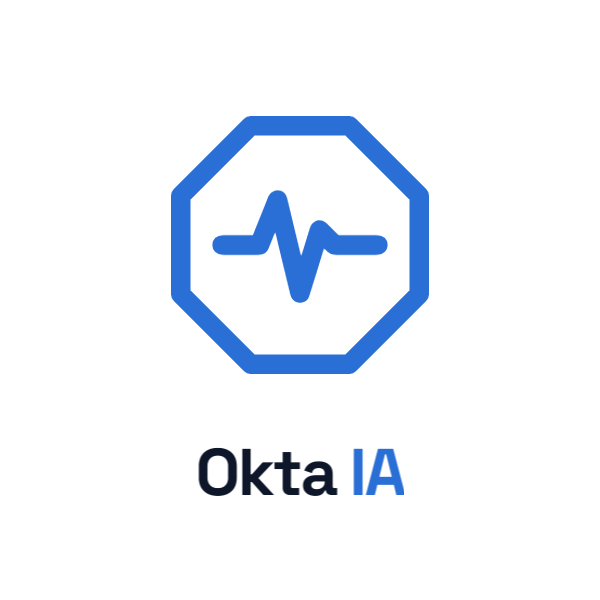
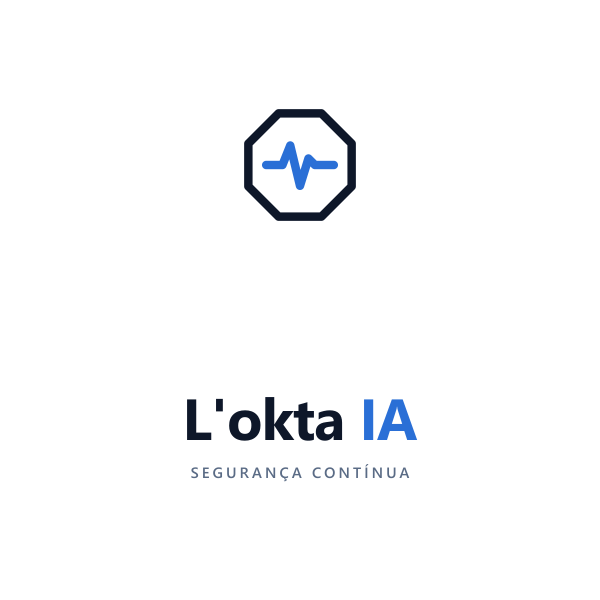
Rebranding completo: Okta-IA → L'okta IA
Logo nova (octógono + pulso, do manual de marca fornecido) substituindo o
selo antigo "O" em todo lugar: favicons, apple-touch-icon, ícone do PWA,
lockups horizontal/empilhado (claro e escuro), e o selo "solido" usado em
todos os cabeçalhos (SOC, Admin, Marketing, Login, 2FA) — via SVG/PNG real
em vez de div com letra estilizada.

Texto "Okta IA"/"Okta-IA"/"okta-ia.com" trocado por "L'okta IA"/"loktaia.com"
em: títulos de página, meta tags (og:site_name/og:image/og:url), mensagens
de compartilhamento, PDFs (Proposta Comercial, Termo de Autorização —
incluindo o selo redesenhado nos dois via IWebHostEnvironment+Image()),
catálogo mockup de conectores/SDK do Admin, issuer do 2FA (TOTP), nomes de
arquivo de PDF baixado, e e-mail de contato (info@/comercial@loktaia.com).

Backfill idempotente no DbSeeder pro e-mail de contato já seedado em
produção (SeedContactChannelsAsync só roda uma vez, nunca atualizaria
sozinho) — só troca se o valor ainda for o default antigo, nunca sobrescreve
edição manual feita via /Contato.

Deixado de propósito sem trocar: nome do recurso Azure App Service
"okta-ia" (identificador técnico interno, invisível ao usuário), namespace
C# "OktaIA.Web", appsettings.Development.json (config local de dev), e
comentários que descrevem o arquivo de mockup original por nome histórico.

Changed region(s): [[0.27, 0.18, 0.72, 0.63], [0.3, 0.66, 0.69, 0.84]]

diff --git a/src/OktaIA.Web/wwwroot/js/site-marketing.js b/src/OktaIA.Web/wwwroot/js/site-marketing.js
@@ -54,7 +54,7 @@
     var shareCopyBtn = shareBackdrop.querySelector('[data-mk-share-copy]');
     var shareNativeBtn = shareBackdrop.querySelector('[data-mk-share-native]');
     var shareChannelsEl = shareBackdrop.querySelector('[data-mk-share-channels]');
-    var shareMsg = 'Conheça a okta-ia: SOC as a Service (MSSP) com monitoramento, resposta, relatórios, consultoria e gestão de segurança, agregando tecnologias de parceiros. Assessment gratuito em 48 horas.';
+    var shareMsg = 'Conheça a L\'okta IA: SOC as a Service (MSSP) com monitoramento, resposta, relatórios, consultoria e gestão de segurança, agregando tecnologias de parceiros. Assessment gratuito em 48 horas.';
 
     function openShare() {
       var url = location.href;
@@ -76,7 +76,7 @@
       if (typeof navigator !== 'undefined' && navigator.share) {
         shareNativeBtn.classList.add('mk-show');
         shareNativeBtn.addEventListener('click', function () {
-          navigator.share({ title: 'okta-ia · Cyber Security & AI', text: shareMsg, url: location.href }).catch(function () {});
+          navigator.share({ title: "L'okta IA · Cyber Security & AI", text: shareMsg, url: location.href }).catch(function () {});
         });
       }
     }
@@ -104,7 +104,7 @@
         { n: 'LinkedIn', c: '#0A66C2', href: 'https://www.linkedin.com/sharing/share-offsite/?url=' + u },
         { n: 'X', c: '#C4D3E6', href: 'https://twitter.com/intent/tweet?text=' + t + '&url=' + u },
         { n: 'Telegram', c: '#2AABEE', href: 'https://t.me/share/url?url=' + u + '&text=' + t },
-        { n: 'E-mail', c: '#FF8A3D', href: 'mailto:?subject=' + encodeURIComponent('okta-ia · Cyber Security & AI') + '&body=' + t + '%0A%0A' + u },
+        { n: 'E-mail', c: '#FF8A3D', href: 'mailto:?subject=' + encodeURIComponent("L'okta IA · Cyber Security & AI") + '&body=' + t + '%0A%0A' + u },
         { n: 'Teams', c: '#6264A7', href: 'https://teams.microsoft.com/share?href=' + u + '&msgText=' + t }
       ];
       shareChannelsEl.innerHTML = '';

diff --git a/src/OktaIA.Web/wwwroot/css/site-marketing.css b/src/OktaIA.Web/wwwroot/css/site-marketing.css
@@ -65,7 +65,7 @@
 }
 .mk-header-inner { max-width: 1280px; margin: 0 auto; padding: 0 clamp(14px, 3vw, 32px); height: 70px; display: flex; align-items: center; gap: 34px; }
 .mk-brand { display: flex; align-items: center; gap: 11px; color: var(--mk-text); flex: none; white-space: nowrap; }
-.mk-brand-mark { width: 30px; height: 30px; border-radius: 8px; background: linear-gradient(145deg, var(--mk-blue), #1B4FA8); display: flex; align-items: center; justify-content: center; font-family: 'IBM Plex Mono', monospace; font-size: 14px; font-weight: 700; color: var(--mk-bg); box-shadow: 0 0 22px rgba(77, 155, 255, .42); }
+.mk-brand-mark { width: 30px; height: 30px; display: flex; align-items: center; justify-content: center; }
 .mk-brand-word { font-size: 16px; font-weight: 700; letter-spacing: -.3px; }
 .mk-brand-word span { color: var(--mk-muted-4); font-weight: 500; }
 .mk-brand-tag { font-family: 'IBM Plex Mono', monospace; font-size: 8px; color: var(--mk-muted-4); letter-spacing: .16em; text-transform: uppercase; }

diff --git a/src/OktaIA.Web/wwwroot/css/site.css b/src/OktaIA.Web/wwwroot/css/site.css
@@ -58,8 +58,7 @@ a:hover { color: var(--oi-accent-light); }
   border-right: 1px solid var(--oi-border); height: 100%;
 }
 .oi-brand-mark {
-  width: 24px; height: 24px; border-radius: 6px;
-  background: linear-gradient(150deg, var(--oi-accent), var(--oi-accent-dark));
+  width: 24px; height: 24px;
   display: flex; align-items: center; justify-content: center;
   font-family: 'IBM Plex Mono', monospace; font-size: 12px; font-weight: 700; color: var(--oi-bg);
 }

diff --git a/src/OktaIA.Web/Services/PropostaComercialPdfService.cs b/src/OktaIA.Web/Services/PropostaComercialPdfService.cs
@@ -6,7 +6,7 @@ using QuestPDF.Infrastructure;
 namespace OktaIA.Web.Services;
 
 // Gera a "Proposta Consultoria" — documento comercial de venda (não o relatório técnico de
-// RelatorioPdfService), no molde do PDF de referência que o usuário trouxe pronto (Okta IA ·
+// RelatorioPdfService), no molde do PDF de referência que o usuário trouxe pronto (L'okta IA ·
 // Proposta Comercial · iAgrow, ago/2026): capa escura, sumário executivo, diagnóstico REAL da
 // empresa, catálogo dos 15 módulos em 4 camadas (Discover/Protect/Analyze/Govern), comparativo,
 // ROI, cronograma de 90 dias, investimento, termos comerciais e anexos. Só a seção 02 (diagnóstico)
@@ -15,9 +15,16 @@ namespace OktaIA.Web.Services;
 // app, que é bilíngue).
 public class PropostaComercialPdfService
 {
+    private readonly byte[] _iconMono;
+
     static PropostaComercialPdfService()
     {
         QuestPDF.Settings.License = LicenseType.Community;
+    }
+
+    public PropostaComercialPdfService(IWebHostEnvironment env)
+    {
+        _iconMono = File.ReadAllBytes(Path.Combine(env.WebRootPath, "img", "brand", "simbolo-mono.png"));
     }
 
     private const string BrandBg = "#0B1220";
@@ -66,12 +73,12 @@ public class PropostaComercialPdfService
                     col.Item().Row(row =>
                     {
                         row.AutoItem().Width(30).Height(30).Background(BrandBlue).AlignMiddle().AlignCenter()
-                            .Text("O").FontSize(15).Bold().FontColor(BrandBg);
+                            .Padding(6).Image(_iconMono);
                         row.RelativeItem().PaddingLeft(10).Column(brand =>
                         {
                             brand.Item().Text(t =>
                             {
-                                t.Span("Okta").FontSize(15).Bold().FontColor(Colors.White);
+                                t.Span("L'okta ").FontSize(15).Bold().FontColor(Colors.White);
                                 t.Span("IA").FontSize(15).Bold().FontColor(BrandBlue);
                             });
                             brand.Item().Text("SEGURANÇA CONTÍNUA").FontSize(7).FontColor(TextMuted).LetterSpacing(0.15f);
@@ -106,7 +113,7 @@ public class PropostaComercialPdfService
                 capa.Footer().Background(BrandBg).PaddingHorizontal(46).PaddingVertical(14).Row(row =>
                 {
                     row.RelativeItem().Text("DOCUMENTO CONFIDENCIAL — USO RESTRITO").FontSize(7).FontColor(TextMuted2);
-                    row.AutoItem().Text("OKTA-IA").FontSize(7).FontColor(TextMuted2);
+                    row.AutoItem().Text("L'OKTA IA").FontSize(7).FontColor(TextMuted2);
                 });
             });
 
@@ -119,7 +126,7 @@ public class PropostaComercialPdfService
 
                 page.Header().Row(row =>
                 {
-                    row.RelativeItem().Text("OKTA IA").FontSize(7.5f).Bold().FontColor(TextMuted2).LetterSpacing(0.1f);
+                    row.RelativeItem().Text("L'OKTA IA").FontSize(7.5f).Bold().FontColor(TextMuted2).LetterSpacing(0.1f);
                     row.AutoItem().Text($"PROPOSTA COMERCIAL · {empresa.Nome.ToUpperInvariant()} · {geradoEm:MMM yyyy}".ToUpperInvariant())
                         .FontSize(7.5f).FontColor(TextMuted2).LetterSpacing(0.06f);
                 });
@@ -132,7 +139,7 @@ public class PropostaComercialPdfService
                         row.RelativeItem().Text("DOCUMENTO CONFIDENCIAL — USO RESTRITO").FontSize(6.5f).FontColor(TextMuted2);
                         row.AutoItem().Text(x =>
                         {
-                            x.Span("OKTA-IA · ").FontSize(6.5f).FontColor(TextMuted2);
+                            x.Span("L'OKTA IA · ").FontSize(6.5f).FontColor(TextMuted2);
                             x.CurrentPageNumber().FontSize(6.5f).FontColor(TextMuted2);
                             x.Span(" / ").FontSize(6.5f).FontColor(TextMuted2);
                             x.TotalPages().FontSize(6.5f).FontColor(TextMuted2);
@@ -158,7 +165,7 @@ public class PropostaComercialPdfService
                         .FontSize(10).LineHeight(1.6f);
                     body.Item().PaddingTop(6).Text(t =>
                     {
-                        t.Span("A Okta IA não substitui nenhuma dessas ferramentas. Ela ").FontSize(10).LineHeight(1.6f);
+                        t.Span("A L'okta IA não substitui nenhuma dessas ferramentas. Ela ").FontSize(10).LineHeight(1.6f);
                         t.Span("orquestra").FontSize(10).Bold().LineHeight(1.6f);
                         t.Span(" todas. É a camada de inteligência que fica acima do parque instalado, consolida o que cada sistema já sabe, " +
                                "prioriza riscos com IA e traduz tudo em uma linguagem que o conselho entende: risco, custo, prazo e responsável.")
@@ -259,7 +266,7 @@ public class PropostaComercialPdfService
 
                     body.Item().PaddingTop(8).Text(
                         "O que esse diagnóstico mostra é apenas a superfície externa. É o primeiro dos quinze módulos da plataforma, e o único que roda " +
-                        "sem nenhuma integração. Os outros catorze só aparecem quando a Okta IA se conecta ao que a empresa já tem instalado.")
+                        "sem nenhuma integração. Os outros catorze só aparecem quando a L'okta IA se conecta ao que a empresa já tem instalado.")
                         .FontSize(9).FontColor(TextMuted).LineHeight(1.6f);
 
                     // 03 — O diretor não quer saber de porta 445
@@ -277,7 +284,7 @@ public class PropostaComercialPdfService
                     {
                         c.Item().Row(r =>
                         {
-                            r.RelativeItem().Text("Com a Okta IA, a resposta cabe em uma tela").FontSize(12).Bold().FontColor(Colors.White);
+                            r.RelativeItem().Text("Com a L'okta IA, a resposta cabe em uma tela").FontSize(12).Bold().FontColor(Colors.White);
                             r.AutoItem().Text("EXEMPLO DE PAINEL (ILUSTRATIVO)").FontSize(6.5f).FontColor(TextMuted2);
                         });
                         c.Item().PaddingTop(12).Row(r =>
@@ -320,7 +327,7 @@ public class PropostaComercialPdfService
                     body.Item().PaddingTop(20);
                     SectionTitle(body, "04", "Não é mais uma ferramenta. É a camada acima delas.");
                     body.Item().PaddingTop(6).Text(
-                        "Enquanto o firewall protege o perímetro, o EDR protege os endpoints e o SIEM correlaciona eventos, a Okta IA conecta tudo isso, " +
+                        "Enquanto o firewall protege o perímetro, o EDR protege os endpoints e o SIEM correlaciona eventos, a L'okta IA conecta tudo isso, " +
                         "prioriza riscos com inteligência artificial, gera relatórios executivos, mede conformidade e orienta a tomada de decisão.")
                         .FontSize(9.5f).LineHeight(1.6f);
                     body.Item().PaddingTop(10).BorderLeft(3).BorderColor(BrandBlue).Background("#F0F5FF").Padding(12)
@@ -443,7 +450,7 @@ public class PropostaComercialPdfService
                         void Head(string t) => table.Cell().BorderBottom(1).BorderColor(Colors.Grey.Darken1).PaddingBottom(4).Text(t).FontSize(7.5f).Bold().FontColor(TextMuted2).LetterSpacing(0.06f);
                         Head("SITUAÇÃO");
                         Head("HOJE, SEM A PLATAFORMA");
-                        Head("COM A OKTA IA");
+                        Head("COM A L'OKTA IA");
 
                         (string Sit, string Antes, string Depois)[] linhas =
                         [
@@ -467,7 +474,7 @@ public class PropostaComercialPdfService
                     SectionTitle(body, "08", "Por que não existe conflito com o que a empresa já usa");
                     body.Item().PaddingTop(6).Text(
                         "Fabricantes de perímetro e endpoint resolvem controle. SIEMs resolvem correlação de eventos. Nenhum dos dois grupos resolve gestão. " +
-                        "É exatamente esse espaço que a Okta IA ocupa.")
+                        "É exatamente esse espaço que a L'okta IA ocupa.")
                         .FontSize(9.5f).LineHeight(1.6f);
 
                     body.Item().PaddingTop(10).Table(table =>
@@ -485,7 +492,7 @@ public class PropostaComercialPdfService
                         Head("NECESSIDADE");
                         Head("FABRICANTES DE PONTO");
                         Head("SIEM");
-                        Head("OKTA IA", true);
+                        Head("L'OKTA IA", true);
 
                         (string Necessidade, string Fab, string Siem, string Okta)[] linhas =
                         [
@@ -511,7 +518,7 @@ public class PropostaComercialPdfService
                     body.Item().PaddingTop(18);
                     SectionTitle(body, "09", "Retorno sobre o investimento");
                     body.Item().PaddingTop(6).Text(
-                        "O retorno da Okta IA vem de quatro frentes mensuráveis. Os valores são preenchidos com os números reais da empresa a partir da Fase 1 " +
+                        "O retorno da L'okta IA vem de quatro frentes mensuráveis. Os valores são preenchidos com os números reais da empresa a partir da Fase 1 " +
                         "e o cálculo passa a ser acompanhado no próprio painel, no módulo de Gestão Financeira.")
                         .FontSize(9.5f).FontColor(TextMuted).LineHeight(1.6f);
 
@@ -707,8 +714,8 @@ public class PropostaComercialPdfService
                         row.ConstantItem(160).Column(c =>
                         {
                             c.Item().Text("CONTATO COMERCIAL").FontSize(6.5f).FontColor(TextMuted2).LetterSpacing(0.08f);
-                            c.Item().PaddingTop(3).Text("Okta IA").FontSize(9.5f).Bold().FontColor(Colors.White);
-                            c.Item().Text("comercial@okta-ia.com").FontSize(8.5f).FontColor(BrandBlue);
+                            c.Item().PaddingTop(3).Text("L'okta IA").FontSize(9.5f).Bold().FontColor(Colors.White);
+                            c.Item().Text("comercial@loktaia.com").FontSize(8.5f).FontColor(BrandBlue);
                         });
                     });
 

diff --git a/src/OktaIA.Web/Services/TermoAutorizacaoPdfService.cs b/src/OktaIA.Web/Services/TermoAutorizacaoPdfService.cs
@@ -11,9 +11,16 @@ namespace OktaIA.Web.Services;
 // entidades já persistidas.
 public class TermoAutorizacaoPdfService
 {
+    private readonly byte[] _iconMonoBranco;
+
     static TermoAutorizacaoPdfService()
     {
         QuestPDF.Settings.License = LicenseType.Community;
+    }
+
+    public TermoAutorizacaoPdfService(IWebHostEnvironment env)
+    {
+        _iconMonoBranco = File.ReadAllBytes(Path.Combine(env.WebRootPath, "img", "brand", "simbolo-mono-branco.png"));
     }
 
     private const string Muted = "#5A7191";
@@ -37,10 +44,10 @@ public class TermoAutorizacaoPdfService
                     col.Item().Row(row =>
                     {
                         row.AutoItem().Width(26).Height(26).Background("#0B1220").AlignMiddle().AlignCenter()
-                            .Text("O").FontSize(13).Bold().FontColor(Colors.White);
+                            .Padding(5).Image(_iconMonoBranco);
                         row.RelativeItem().PaddingLeft(9).AlignMiddle().Text(t =>
                         {
-                            t.Span("Okta").FontSize(13).Bold().FontColor("#0B1220");
+                            t.Span("L'okta ").FontSize(13).Bold().FontColor("#0B1220");
                             t.Span("IA").FontSize(13).Bold().FontColor("#4D9BFF");
                         });
                         row.AutoItem().AlignMiddle().Text($"Gerado em {geradoEm:dd/MM/yyyy HH:mm}").FontSize(8).FontColor(Muted);
@@ -67,12 +74,12 @@ public class TermoAutorizacaoPdfService
 
                         Campo("EMPRESA AUTORIZANTE", empresaNome);
                         Campo("DOMÍNIO/ATIVO AUTORIZADO", dominioExibicao);
-                        Campo("PRESTADOR AUTORIZADO", "Okta IA — comercial@okta-ia.com");
+                        Campo("PRESTADOR AUTORIZADO", "L'okta IA — comercial@loktaia.com");
                     });
 
                     col.Item().PaddingTop(20).Text(
                         $"Eu, na qualidade de representante ou responsável técnico pela empresa acima identificada, declaro que sou responsável " +
-                        $"pelo domínio {dominioExibicao} — ou possuo autorização expressa de quem é — e, nessa condição, autorizo a Okta IA a " +
+                        $"pelo domínio {dominioExibicao} — ou possuo autorização expressa de quem é — e, nessa condição, autorizo a L'okta IA a " +
                         "executar verificações técnicas de segurança sobre esse domínio, com a finalidade exclusiva de identificar vulnerabilidades " +
                         "e apoiar a melhoria da postura de segurança da empresa.")
                         .FontSize(9.5f).LineHeight(1.65f);
@@ -104,8 +111,8 @@ public class TermoAutorizacaoPdfService
                     col.Item().PaddingTop(14).Text(
                         "As verificações são passivas e não intrusivas — não incluem tentativa de exploração de vulnerabilidade, ataque de negação " +
                         "de serviço ou acesso não autorizado a dados. Esta autorização é válida enquanto o ativo permanecer cadastrado como " +
-                        "autorizado na plataforma Okta IA, podendo ser revogada a qualquer momento mediante solicitação por escrito ao e-mail " +
-                        "comercial@okta-ia.com.")
+                        "autorizado na plataforma L'okta IA, podendo ser revogada a qualquer momento mediante solicitação por escrito ao e-mail " +
+                        "comercial@loktaia.com.")
                         .FontSize(9).FontColor(Muted).LineHeight(1.6f);
 
                     col.Item().PaddingTop(30).Row(row =>
@@ -129,7 +136,7 @@ public class TermoAutorizacaoPdfService
                 {
                     col.Item().LineHorizontal(0.7f).LineColor(Colors.Grey.Lighten2);
                     col.Item().PaddingTop(6).Text(
-                        $"Documento gerado eletronicamente pela plataforma Okta IA em {geradoEm:dd/MM/yyyy HH:mm}. " +
+                        $"Documento gerado eletronicamente pela plataforma L'okta IA em {geradoEm:dd/MM/yyyy HH:mm}. " +
                         "Válido como registro de autorização informada, mantido como evidência de conformidade (LGPD, art. 46).")
                         .FontSize(7.5f).FontColor(Muted);
                 });

diff --git a/src/OktaIA.Web/Services/AdminCatalog.cs b/src/OktaIA.Web/Services/AdminCatalog.cs
@@ -97,9 +97,9 @@ public static class AdminCatalog
         new ConnectorItem("Wazuh", "wazuh", "1.2.8", "HIDS / SIEM", "Wazuh Inc.", "apikey", new[] { "alerts", "assets", "vulns", "events" }, "degraded", 82, "4 min", "11.7k", "ativo"),
         new ConnectorItem("Fortinet FortiGate", "fortigate", "1.6.1", "Firewall / NGFW", "Fortinet", "cert", new[] { "alerts", "assets", "events" }, "healthy", 97, "2 min", "19.3k", "ativo"),
         new ConnectorItem("CrowdStrike Falcon", "crowdstrike", "1.3.4", "EDR", "CrowdStrike", "oauth2", new[] { "alerts", "assets", "incidents", "vulns" }, "healthy", 99, "1 min", "6.2k", "ativo"),
-        new ConnectorItem("AWS Security Hub", "aws-hub", "1.1.0", "Cloud Security", "okta-ia", "iam", new[] { "alerts", "assets", "vulns" }, "healthy", 96, "5 min", "3.8k", "ativo"),
+        new ConnectorItem("AWS Security Hub", "aws-hub", "1.1.0", "Cloud Security", "L'okta IA", "iam", new[] { "alerts", "assets", "vulns" }, "healthy", 96, "5 min", "3.8k", "ativo"),
         new ConnectorItem("Tenable Nessus", "tenable", "0.9.3", "Vulnerability Mgmt", "Comunidade", "apikey", new[] { "vulns", "assets" }, "error", 0, "—", "0", "erro"),
-        new ConnectorItem("Cloudflare", "cloudflare", "1.0.7", "WAF / CDN", "okta-ia", "apikey", new[] { "alerts", "events" }, "healthy", 99, "1 min", "41.2k", "ativo"),
+        new ConnectorItem("Cloudflare", "cloudflare", "1.0.7", "WAF / CDN", "L'okta IA", "apikey", new[] { "alerts", "events" }, "healthy", 99, "1 min", "41.2k", "ativo"),
     };
 
     // ---------- Cofre de credenciais ----------
@@ -240,11 +240,11 @@ public static class AdminCatalog
 
     public static readonly IReadOnlyList<SdkStep> SdkSteps = new[]
     {
-        new SdkStep("01", "Instalar o SDK", "dotnet add package OktaIa.Connector.Sdk — ou npm i @okta-ia/connector-sdk para conectores em TypeScript."),
+        new SdkStep("01", "Instalar o SDK", "dotnet add package LoktaIa.Connector.Sdk — ou npm i @loktaia/connector-sdk para conectores em TypeScript."),
         new SdkStep("02", "Implementar a interface", "Herde de ConnectorBase e implemente os seis métodos do contrato. O núcleo cuida de retry, cursor, cota e cofre."),
         new SdkStep("03", "Declarar capacidades", "Em getCapabilities() diga quais entidades você entrega, em qual direção e com qual granularidade."),
         new SdkStep("04", "Mapear para o esquema", "Traduza o payload do fornecedor para ok.alert.v2, ok.asset.v2 e demais esquemas versionados."),
-        new SdkStep("05", "Testar no sandbox", "okta-ia connector test executa o conjunto de conformidade: 84 asserções de contrato, idempotência e retomada."),
+        new SdkStep("05", "Testar no sandbox", "loktaia connector test executa o conjunto de conformidade: 84 asserções de contrato, idempotência e retomada."),
         new SdkStep("06", "Publicar", "Assine o pacote e submeta ao marketplace. Revisão de segurança em até 5 dias úteis para selo verificado."),
     };
 

diff --git a/src/OktaIA.Web/Data/Seed/DbSeeder.cs b/src/OktaIA.Web/Data/Seed/DbSeeder.cs
@@ -30,6 +30,20 @@ public static class DbSeeder
         await SeedContactChannelsAsync(db);
         await SeedRolePermissionsAsync(db, roleManager);
         await BackfillDigitalTwinPermissionAsync(db);
+        await BackfillRebrandLoktaiaAsync(db);
+    }
+
+    // Rebranding Okta-IA → L'okta IA (loktaia.com): SeedContactChannelsAsync só roda uma vez, então
+    // o e-mail antigo já gravado em produção nunca seria atualizado sozinho. Só troca se o valor
+    // ainda for exatamente o default antigo — nunca sobrescreve edição manual feita via /Contato.
+    private static async Task BackfillRebrandLoktaiaAsync(ApplicationDbContext db)
+    {
+        var canal = await db.ContactChannels.FirstOrDefaultAsync(c => c.Chave == "COMERCIAL" && c.Valor == "info@okta-ia.com");
+        if (canal is not null)
+        {
+            canal.Valor = "info@loktaia.com";
+            await db.SaveChangesAsync();
+        }
     }
 
     // Dá aos perfis nativos exatamente o acesso que eles já tinham via [Authorize(Roles="...")]
@@ -102,7 +116,7 @@ public static class DbSeeder
 
         (string Chave, string Cor, string Valor, string Descricao)[] dados =
         [
-            ("COMERCIAL", "#4D9BFF", "info@okta-ia.com", "Propostas, demonstrações e parcerias"),
+            ("COMERCIAL", "#4D9BFF", "info@loktaia.com", "Propostas, demonstrações e parcerias"),
             ("TELEFONE", "#00E0A4", "+55 11 3042-9392", "Segunda a sexta, 8h às 18h"),
             ("WHATSAPP", "#00E0A4", "+55 34 9 9677-8585", "Atendimento comercial e suporte"),
             ("ENDEREÇO", "#8A7BFF", "Av. Paulista, 2006, cj 1314, Bela Vista, São Paulo-SP, CEP 01.310-926", "Atendimento presencial mediante agendamento"),

diff --git a/src/OktaIA.Web/Services/RelatorioPdfService.cs b/src/OktaIA.Web/Services/RelatorioPdfService.cs
@@ -19,7 +19,7 @@ public class RelatorioPdfService
     // técnico de remediação, que só faz sentido pra quem vai executar a correção (Admin/equipe
     // interna) ou pra consultoria vendida à parte; o relatório que vai pro cliente final mostra o
     // achado e o risco de negócio, mas não entrega de graça o "como resolver" que é justamente o
-    // que a Okta IA vende como serviço. Risco e Recomendação (1 linha) continuam visíveis nos dois.
+    // que a L'okta IA vende como serviço. Risco e Recomendação (1 linha) continuam visíveis nos dois.
     public byte[] Gerar(string empresaNome, List<Vulnerability> achados, List<(string Nome, string Ip, DateTimeOffset? UltimoScan)> ativosEscaneados, string lang, bool paraCliente = false)
     {
         var pt = lang != "en";

diff --git a/src/OktaIA.Web/Pages/Vulnerabilidades.cshtml.cs b/src/OktaIA.Web/Pages/Vulnerabilidades.cshtml.cs
@@ -243,7 +243,7 @@ public class VulnerabilidadesModel : PageModel
         var pdf = _propostaPdf.Gerar(empresaAtual, achadosReais, ativosReais.Count, ativos.Count,
             ultimaVarredura == default ? null : ultimaVarredura);
 
-        var nomeArquivo = $"proposta-comercial-okta-ia-{empresaAtual.Nome.Replace(" ", "-").ToLowerInvariant()}.pdf";
+        var nomeArquivo = $"proposta-comercial-lokta-ia-{empresaAtual.Nome.Replace(" ", "-").ToLowerInvariant()}.pdf";
         return File(pdf, "application/pdf", nomeArquivo);
     }
 

diff --git a/src/OktaIA.Web/Models/ContactChannel.cs b/src/OktaIA.Web/Models/ContactChannel.cs
@@ -8,7 +8,7 @@ public class ContactChannel
 
     public required string Chave { get; set; }     // rótulo curto, ex. "COMERCIAL"
     public required string Cor { get; set; }        // hex, ex. "#4D9BFF"
-    public required string Valor { get; set; }       // ex. "info@okta-ia.com"
+    public required string Valor { get; set; }       // ex. "info@loktaia.com"
     public required string Descricao { get; set; }   // ex. "Propostas, demonstrações e parcerias"
     public int Ordem { get; set; }
 }

diff --git a/src/OktaIA.Web/Pages/Ativos.cshtml.cs b/src/OktaIA.Web/Pages/Ativos.cshtml.cs
@@ -111,7 +111,7 @@ public class AtivosModel : PageModel
     {
         var empresa = await _db.Companies.FirstOrDefaultAsync(c => c.Id == empresaId);
         var pdf = _termoPdf.Gerar(empresa?.Nome ?? "—", dominio ?? "");
-        return File(pdf, "application/pdf", "termo-autorizacao-okta-ia.pdf");
+        return File(pdf, "application/pdf", "termo-autorizacao-lokta-ia.pdf");
     }
 
     public async Task<IActionResult> OnPostScanAsync(int id, int? empresa)

diff --git a/src/OktaIA.Web/Program.cs b/src/OktaIA.Web/Program.cs
@@ -28,7 +28,7 @@ builder.Services.AddSingleton<TermoAutorizacaoPdfService>();
 builder.Services.AddHttpClient<SecurityScanService>(client =>
 {
     client.Timeout = TimeSpan.FromSeconds(20);
-    client.DefaultRequestHeaders.UserAgent.ParseAdd("okta-ia-scanner/1.0");
+    client.DefaultRequestHeaders.UserAgent.ParseAdd("loktaia-scanner/1.0");
 });
 
 builder.Services
